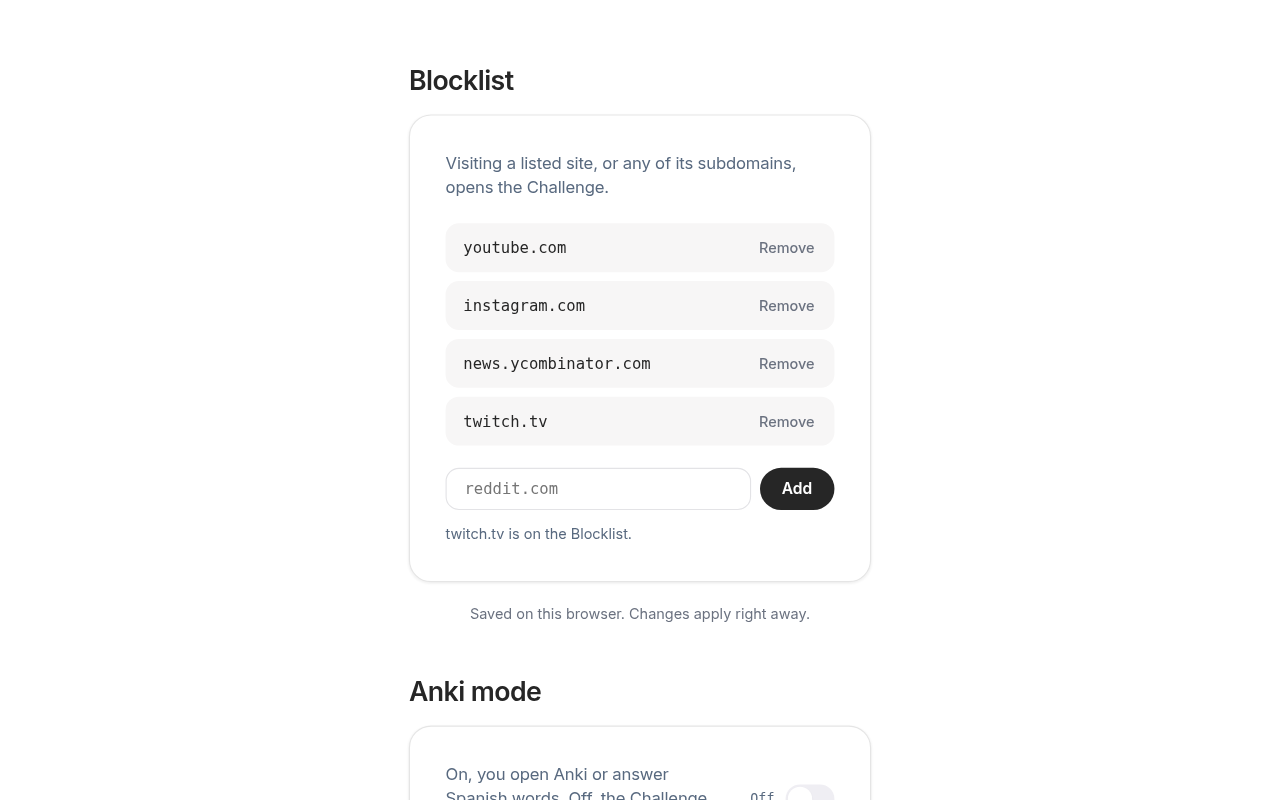
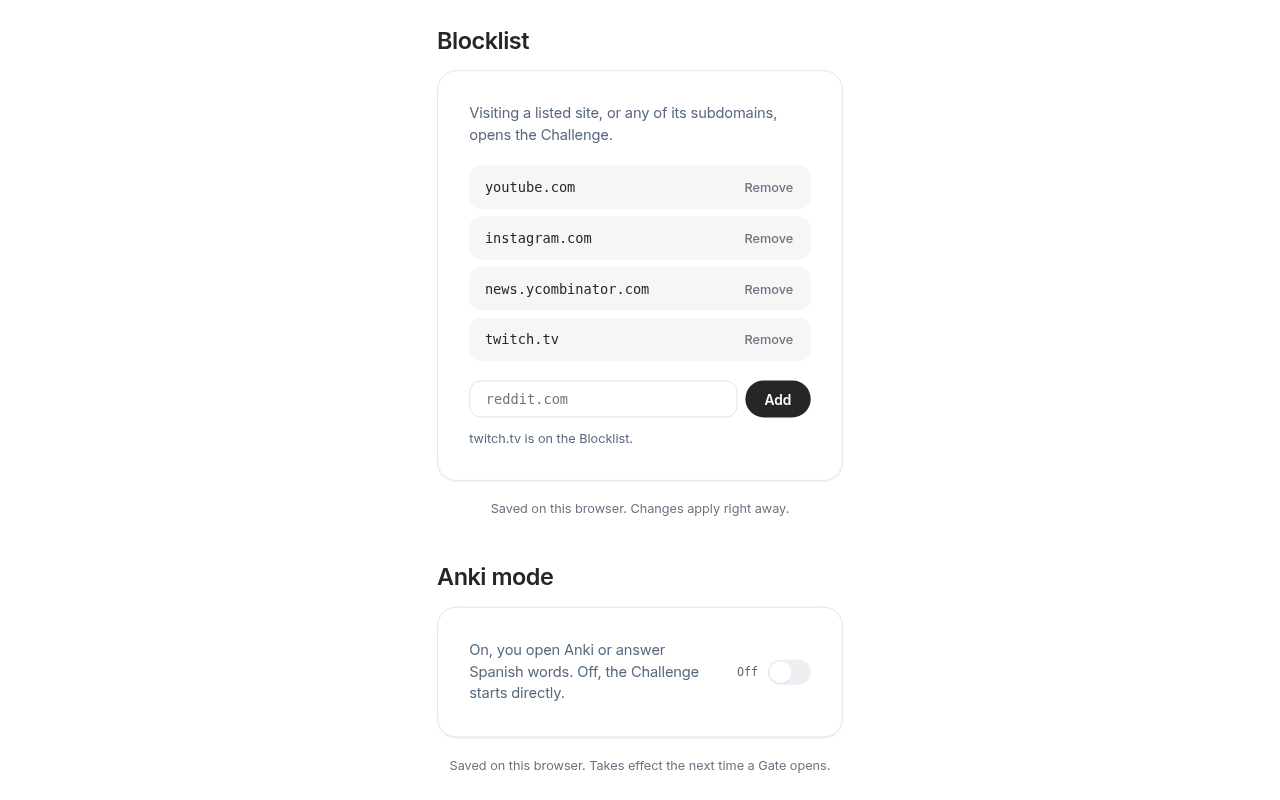
Remove PRODUCT.md and CI, test ordering rules, fix blocklist screenshot

diff --git a/packages/distractiontax/src/background.test.ts b/packages/distractiontax/src/background.test.ts
@@ -1,0 +1,85 @@
+import { expect, test } from "bun:test";
+import { DEFAULT_BLOCKLIST } from "./blocklist.ts";
+
+type Rule = chrome.declarativeNetRequest.Rule;
+type Listener = (...args: never[]) => unknown;
+
+function chromeEvent() {
+  const listeners: Listener[] = [];
+  return {
+    addListener: (listener: Listener) => void listeners.push(listener),
+    fire: (...args: unknown[]) => {
+      for (const listener of listeners) (listener as (...a: unknown[]) => unknown)(...args);
+    },
+  };
+}
+
+const store: Record<string, unknown> = {};
+let rules: Rule[] = [];
+const ruleSets: Rule[][] = [];
+
+const onChanged = chromeEvent();
+const onInstalled = chromeEvent();
+const onStartup = chromeEvent();
+
+globalThis.chrome = {
+  storage: {
+    local: {
+      get: async (key: string) => (key in store ? { [key]: store[key] } : {}),
+      set: async (items: Record<string, unknown>) => {
+        Object.assign(store, items);
+        const changes = Object.fromEntries(
+          Object.entries(items).map(([key, newValue]) => [key, { newValue }]),
+        );
+        onChanged.fire(changes, "local");
+      },
+    },
+    onChanged,
+  },
+  declarativeNetRequest: {
+    getDynamicRules: async () => [...rules],
+    updateDynamicRules: async (options: { removeRuleIds?: number[]; addRules?: Rule[] }) => {
+      const kept = rules.filter((rule) => !options.removeRuleIds?.includes(rule.id));
+      for (const rule of options.addRules ?? []) {
+        if (kept.some((existing) => existing.id === rule.id)) throw new Error("duplicate id");
+        kept.push(rule);
+      }
+      rules = kept;
+      ruleSets.push([...rules]);
+    },
+  },
+  alarms: { clearAll: async () => true, create: () => {}, onAlarm: chromeEvent() },
+  tabs: { query: async () => [], reload: async () => {}, update: async () => ({}) },
+  permissions: { onAdded: chromeEvent() },
+  runtime: {
+    getURL: (path: string) => `chrome-extension://test/${path}`,
+    onInstalled,
+    onStartup,
+  },
+} as unknown as typeof chrome;
+
+await import("./background.ts");
+
+const settle = () => new Promise((resolve) => setTimeout(resolve, 0));
+
+function redirected(set: Rule[]): string[] {
+  return set.flatMap((rule) => rule.condition.requestDomains ?? []).sort();
+}
+
+test("updating the rules never leaves a still-listed site unblocked, even for a moment", async () => {
+  onInstalled.fire();
+  await settle();
+  expect(redirected(rules)).toEqual([...DEFAULT_BLOCKLIST].sort());
+
+  ruleSets.length = 0;
+  store.blocklist = ["reddit.com", ...DEFAULT_BLOCKLIST];
+  onChanged.fire({ blocklist: { newValue: store.blocklist } }, "local");
+  onStartup.fire();
+  await settle();
+
+  expect(ruleSets.length).toBeGreaterThan(0);
+  for (const set of ruleSets) {
+    for (const domain of DEFAULT_BLOCKLIST) expect(redirected(set)).toContain(domain);
+  }
+  expect(redirected(rules)).toEqual(["reddit.com", ...DEFAULT_BLOCKLIST].sort());
+});

diff --git a/packages/distractiontax/src/options.test.ts b/packages/distractiontax/src/options.test.ts
@@ -1,0 +1,89 @@
+import { expect, test } from "bun:test";
+
+type Handler = (event: { preventDefault: () => void }) => unknown;
+
+class FakeElement {
+  [property: string]: unknown;
+  className = "";
+  textContent = "";
+  value = "";
+  children: FakeElement[] = [];
+  private attributes = new Map<string, string>();
+  private handlers = new Map<string, Handler[]>();
+
+  setAttribute(name: string, value: string): void {
+    this.attributes.set(name, value);
+  }
+  append(...nodes: FakeElement[]): void {
+    this.children.push(...nodes);
+  }
+  prepend(...nodes: FakeElement[]): void {
+    this.children.unshift(...nodes);
+  }
+  replaceChildren(...nodes: FakeElement[]): void {
+    this.children = nodes;
+  }
+  addEventListener(type: string, handler: Handler): void {
+    this.handlers.set(type, [...(this.handlers.get(type) ?? []), handler]);
+  }
+  dispatch(type: string): void {
+    for (const handler of this.handlers.get(type) ?? []) handler({ preventDefault: () => {} });
+  }
+  find(className: string): FakeElement[] {
+    return this.children.flatMap((child) => [
+      ...(child.className === className ? [child] : []),
+      ...child.find(className),
+    ]);
+  }
+}
+
+const app = new FakeElement();
+globalThis.document = {
+  getElementById: (id: string) => (id === "app" ? app : null),
+  createElement: () => new FakeElement(),
+} as unknown as Document;
+
+const listener = { addListener: () => {} };
+const requests: chrome.permissions.Permissions[] = [];
+const withoutAccess = "*://*.instagram.com/*";
+
+globalThis.chrome = {
+  storage: {
+    local: {
+      get: async (key: string) =>
+        key === "blocklist" ? { blocklist: ["youtube.com", "instagram.com"] } : {},
+      set: async () => {},
+    },
+    onChanged: listener,
+  },
+  permissions: {
+    request: (permissions: chrome.permissions.Permissions) => {
+      requests.push(permissions);
+      return new Promise<boolean>(() => {});
+    },
+    contains: async (permissions: chrome.permissions.Permissions) =>
+      !permissions.origins?.includes(withoutAccess),
+    remove: async () => true,
+    onAdded: listener,
+    onRemoved: listener,
+  },
+} as unknown as typeof chrome;
+
+await import("./options.ts");
+await new Promise((resolve) => setTimeout(resolve, 0));
+
+test("adding a site asks Chrome for access while the submit is still being handled", () => {
+  requests.length = 0;
+  const [input] = app.find("site-input");
+  input.value = "reddit.com";
+  app.find("site-form")[0].dispatch("submit");
+  expect(requests).toEqual([{ origins: ["*://*.reddit.com/*"] }]);
+});
+
+test("Allow access asks Chrome for access while the click is still being handled", () => {
+  requests.length = 0;
+  const allow = app.find("site-allow");
+  expect(allow).toHaveLength(1);
+  allow[0].dispatch("click");
+  expect(requests).toEqual([{ origins: [withoutAccess] }]);
+});

diff --git a/packages/distractiontax-x/src/gate-policy.test.ts b/packages/distractiontax-x/src/gate-policy.test.ts
@@ -1,5 +1,5 @@
 import { describe, expect, test } from "bun:test";
-import { decide } from "./gate-policy.ts";
+import { decide, FOLLOWING_FALLBACK } from "./gate-policy.ts";
 import type { Observation } from "./gate-policy.ts";
 
 const NOW = 1_000_000;
@@ -35,6 +35,20 @@ describe("while locked", () => {
   test("?following=true with no tab state on screen is trusted — no switch loop", () => {
     const o = observation({ trigger: "pageLoad", search: "?following=true", renderedTab: null });
     expect(decide(o)).toBe("none");
+  });
+
+  test("the Following fallback URL needs nothing before X renders its tabs — no reload loop", () => {
+    const { pathname, search } = new URL(FOLLOWING_FALLBACK, "https://x.com");
+    for (const trigger of [
+      "pageLoad",
+      "spaNavigation",
+      "domChange",
+      "expiryTimer",
+      "visibilityReturn",
+      "windowChange",
+    ] as const) {
+      expect(decide(observation({ trigger, pathname, search, renderedTab: null }))).toBe("none");
+    }
   });
 
   test("the Following feed on screen needs nothing", () => {

diff --git a/packages/core/src/challenge/challenge.ts b/packages/core/src/challenge/challenge.ts
@@ -6,6 +6,7 @@ import { grantWindow, WINDOW_MINUTES } from "../windows.ts";
 import { el } from "./dom.ts";
 import { resolveTarget } from "./target.ts";
 import type { ChallengeTarget } from "./target.ts";
+import { advanceAfterHitMs, advanceAfterMissMs } from "./timing.json";
 import wordlist from "../wordlist.json";
 
 const ITEM_COUNT = 10;
@@ -269,7 +270,7 @@ function renderQuiz(app: HTMLElement, target: ChallengeTarget): void {
       setTimeout(() => {
         busy = false;
         advance();
-      }, 900);
+      }, advanceAfterMissMs);
       return;
     }
 
@@ -285,7 +286,7 @@ function renderQuiz(app: HTMLElement, target: ChallengeTarget): void {
     setTimeout(() => {
       busy = false;
       advance();
-    }, 480);
+    }, advanceAfterHitMs);
   }
 
   renderItem(false);

diff --git a/packages/distractiontax-x/src/content.ts b/packages/distractiontax-x/src/content.ts
@@ -1,4 +1,4 @@
-import { decide } from "./gate-policy.ts";
+import { decide, FOLLOWING_FALLBACK } from "./gate-policy.ts";
 import type { RenderedTab, Trigger } from "./gate-policy.ts";
 import { getWindows, WINDOWS_KEY } from "../../core/src/windows.ts";
 
@@ -46,7 +46,7 @@ function enforce(trigger: Trigger, event?: Event): void {
   if (action === "switchToFollowing") {
     const following = location.pathname === "/home" ? homeTabs()[1] : undefined;
     if (following) following.click();
-    else location.replace("/home?following=true");
+    else location.replace(FOLLOWING_FALLBACK);
     return;
   }
 

diff --git a/packages/distractiontax-x/src/gate-policy.ts b/packages/distractiontax-x/src/gate-policy.ts
@@ -24,6 +24,8 @@ export type Action =
   | "switchToFollowing"
   | { challenge: { name: string; label: string; returnUrl: string } };
 
+export const FOLLOWING_FALLBACK = "/home?following=true";
+
 const SURFACE_NAME = "For You & Explore";
 
 const FOR_YOU_CHALLENGE: Action = {

diff --git a/README.md b/README.md
@@ -111,10 +111,12 @@ bun run wordlist     # regenerates wordlist.json (-- --top 2500 for more words)
 Tests cover the pure modules: the gate policy, the quiz draw, Access
 Windows, DNR rule derivation, Challenge target resolution, Anki review
 progress, Anki mode, Blocklist parsing and editing, and the committed
-wordlist's invariants. The browser adapters have no unit tests, because
-mocked tests would keep passing if X or Chrome changed underneath them.
-Instead, `store/tools` loads the packaged zips in real Chromium and drives
-the core flows end to end (see [store/tools/README.md](./store/tools/README.md)).
+wordlist's invariants. The browser adapters are unit tested against a fake
+Chrome only for two ordering rules: the options page asks Chrome for a site
+before anything is awaited, and the background replaces its redirect rules
+in one update. Beyond those, mocked tests would keep passing if X or Chrome
+changed underneath them. Instead, `store/tools` loads the packaged zips in
+real Chromium and drives the core flows end to end (see [store/tools/README.md](./store/tools/README.md)).
 Its x.com page is a stand-in, so a change to X's own markup still needs a
 check in a real session.
 
